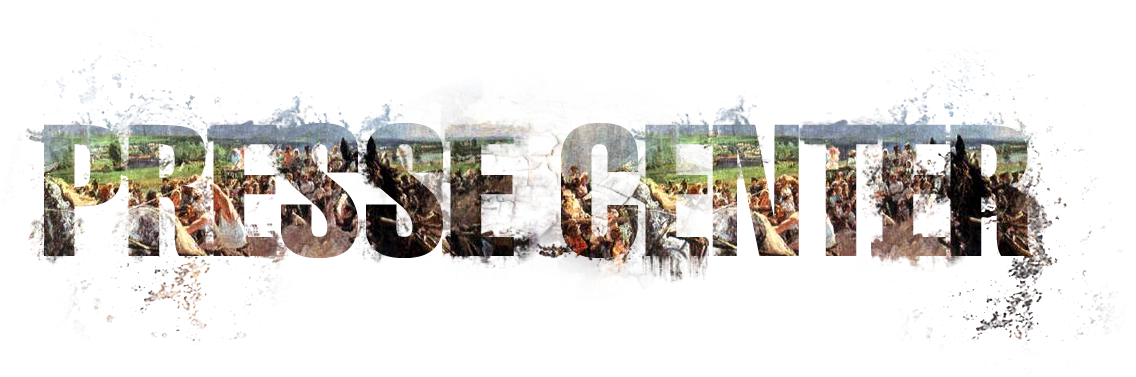
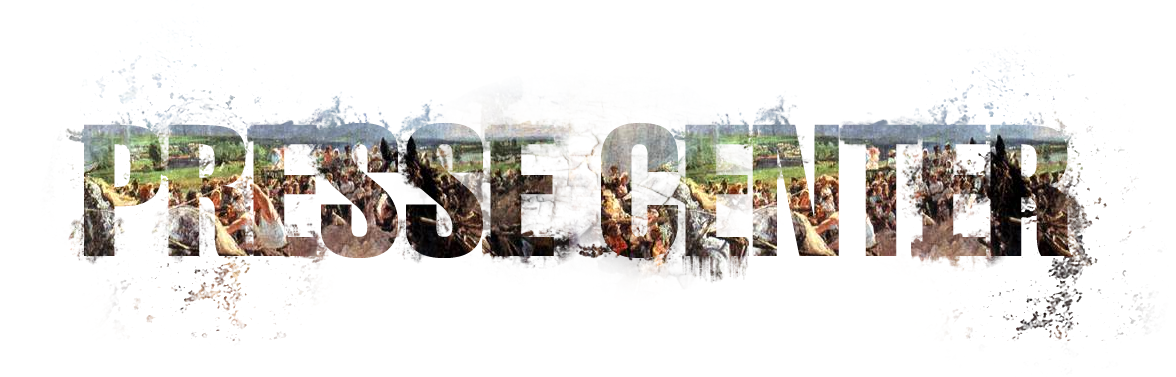
style header

Changed region(s): [[0.0, 0.2042, 0.9551, 0.9045], [0.8319, 0.2042, 0.8627, 0.2334]]

diff --git a/public/css/main.css b/public/css/main.css
@@ -153,6 +153,10 @@ h3 {
 
 }
 
+h4 {
+	margin: 0 0 15px;
+}
+
 p {
 	margin: 0 0 15px;
 }
@@ -295,7 +299,7 @@ ul, ol {
 	height: 179px;
 	top: 60px;
 	right: 100px;
-	z-index: 1;
+	z-index: 99;
 }
 
 .parallax2 {
@@ -303,7 +307,7 @@ ul, ol {
 	width: 436px;
 	height: 293px;
 	top: 690px;
-	z-index: 1;
+	z-index: 99;
 	left: -150px;
 }
 
@@ -313,7 +317,7 @@ ul, ol {
 	height: 200px;
 	top: 195px;
 	right: 60px;
-	z-index: 1;
+	z-index: 99;
 }
 
 .blot {
@@ -460,9 +464,33 @@ ul, ol {
 	position: relative;
 }
 
+.page-home .header-middle {
+	top: -30px;
+}
+
+.page-home-en .header-middle {
+	height: 300px;
+	top: -45px;
+	left: -50px;
+}
+
+.page-home-de .header-middle {
+	height: 300px;
+}
+
 .page-news .header-middle {
 	height: 240px;
 	top: -50px;
+}
+
+.page-news-en .header-middle {
+	height: 240px;
+	left: -10px;
+}
+
+.page-news-de .header-middle {
+	height: 240px;
+	top:-65px;
 }
 
 .page-question .header-middle {
@@ -470,8 +498,12 @@ ul, ol {
 	top: -70px;
 }
 
-.page-home .header-middle {
-	top: -30px;
+.page-question-en .header-middle {
+
+}
+
+.page-question-de .header-middle {
+
 }
 
 .page-personal .header-middle {
@@ -480,14 +512,62 @@ ul, ol {
 	left: -34px;
 }
 
+.page-personal-en .header-middle {
+	height: 240px;
+	top: -42px;
+	left: -10px;
+}
+
+.page-personal-de .header-middle {
+	height: 240px;
+	top: -35px;
+	left: -25px;
+}
+
 .page-about .header-middle {
 	height: 240px;
 	top: -13px;
 }
 
+.page-about-en .header-middle {
+	height: 240px;
+	top: -30px;
+	left: -10px;
+}
+
+.page-about-de .header-middle {
+	left: -10px;
+}
+
 .page-participation .header-middle {
 	height: 240px;
 	top: -50px;
+	left: -30px;
+}
+
+.page-participation-en .header-middle {
+	height: 240px;
+}
+
+.page-participation-de .header-middle {
+	height: 240px;
+	top: -27px;
+}
+
+.page-about-award .header-middle {
+	height: 240px;
+	top: -25px;
+	left: -10px;
+}
+
+.page-about-award-en .header-middle {
+	height: 240px;
+	top: -10px;
+}
+
+.page-about-award-de .header-middle {
+	height: 240px;
+	top: -10px;
 	left: -20px;
 }
 
@@ -2238,11 +2318,11 @@ blockquote.blockquote-nas {
 .web-form-load-pictures .jspDrag {
 	background: url(../img/jspDragPhoto.png) no-repeat;
 }
-/*
-.web-form-load-pictures .form-line-load-photo {
-	margin: -20px 0 0 0;
+
+.list-news h4 a {
+	color: #000000;
 }
-*/
+
 /* Footer
 -----------------------------------------------------------------------------*/
 #footer {

diff --git a/public/js/main.js b/public/js/main.js
@@ -14,7 +14,15 @@ $(document).ready(function(){
 
 initParallax = function() {
 	$('.parallax').plaxify({"xRange":100,"yRange":0});
-	$.plax.enable()
+	$.plax.enable();
+
+	var heightWrapper = $('#wrapper').height();
+	var parallax2 = $('.parallax2');
+	var heightParallax2 = parallax2.height() + parallax2.position().top;
+
+	if(heightParallax2 >= heightWrapper) {
+		parallax2.css('top','300px');
+	}
 };
 
 initReplaceCursorIphone = function() {
